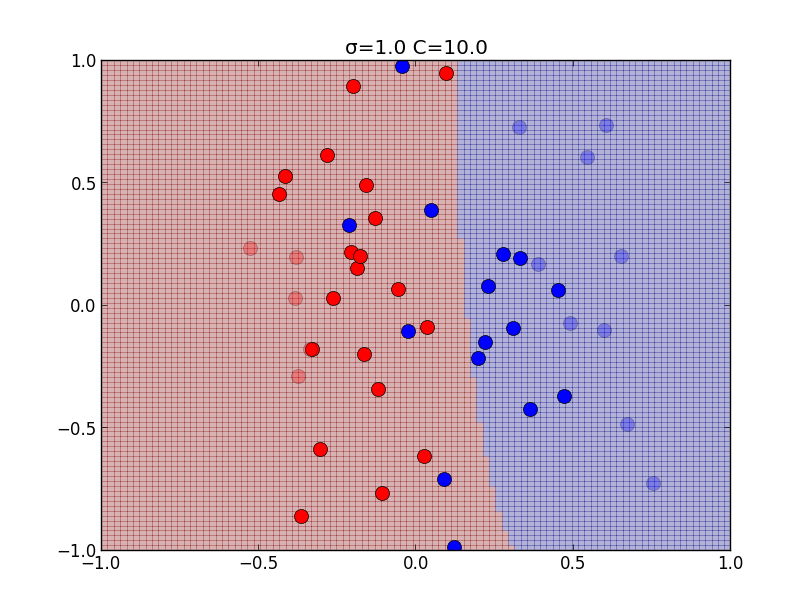
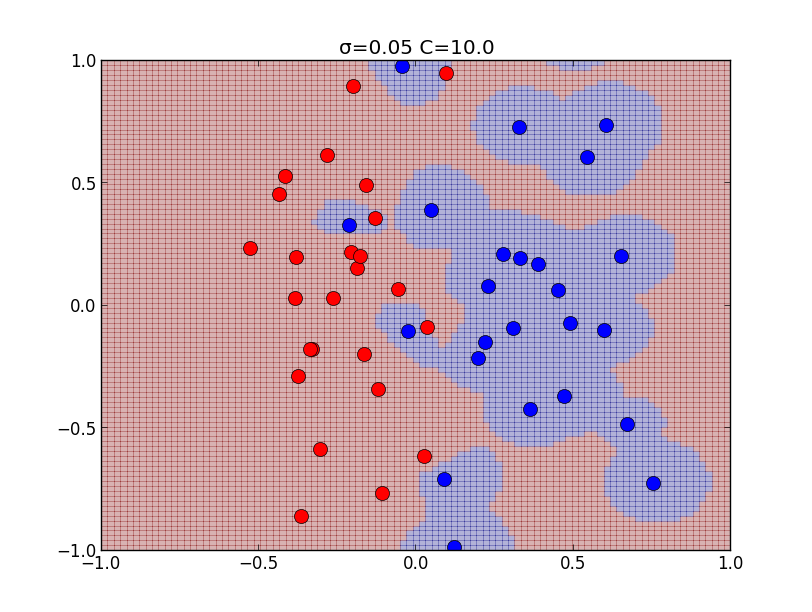
Update 12.html

diff --git a/12.html b/12.html
@@ -454,16 +454,31 @@
 
         <section>
         <p>
-        実装例です. 分散パラメータが$\sigma=0.8$のガウスカーネルを用いています. 色の濃い点がサポートベクトルです.
+        実装例です. 線形カーネルを用いており, 色の濃い点がサポートベクトルです.
         </p>
-        <div align="center"> <img width="600px" src="prog/fig12-1-2.png"> <a href="prog/prog12-1.py" style="font-size:60%">prog12-1.py</a> </div>
+        <div align="center"> <img width="600px" src="prog/fig12-3.png"> <a href="prog/prog12-3.py" style="font-size:60%">prog12-3.py</a> </div>
+        </section>
+
+        <section>
+        <p>
+        以下はニューラルネットワークを用いた場合です. 若干青いグループに識別面が寄っています.
+        </p>
+        <div align="center"> <img width="600px" src="prog/fig12-4.png"> <a href="prog/prog12-4.py" style="font-size:60%">prog12-4.py</a> </div>
+        </section>
+
+
+        <section>
+        <p>
+        分散パラメータが$\sigma=0.8$のガウスカーネルを用いた例です.
+        </p>
+        <div align="center"> <img width="600px" src="prog/fig12-1-1.png"> <a href="prog/prog12-1.py" style="font-size:60%">prog12-1.py</a> </div>
         </section>
 
         <section>
         <p>
         もっと複雑な分布の例です. こちらでは$\sigma=0.4$にしています.
         </p>
-        <div align="center"> <img width="600px" src="prog/fig12-1-4.png"> <a href="prog/prog12-1.py" style="font-size:60%">prog12-1.py</a> </div>
+        <div align="center"> <img width="600px" src="prog/fig12-1-2.png"> <a href="prog/prog12-1.py" style="font-size:60%">prog12-1.py</a> </div>
         </section>
 
 
@@ -601,7 +616,7 @@
 
         <section>
         <p> 以下はカーネルの分散パラメータ $\sigma$と, ソフトマージンのパラメータ $C$ を色々変えて学習を行ったものです. </p>
-        <div align="center"> <img width="600px" src="prog/fig12-2-6.png"> <a href="prog/prog12-2.py" style="font-size:60%">prog12-2.py</a> </div>
+        <div align="center"> <img width="600px" src="prog/fig12-2-5.png"> <a href="prog/prog12-2.py" style="font-size:60%">prog12-2.py</a> </div>
         </section>
 
         <section>

diff --git a/prog/prog12-4.py b/prog/prog12-4.py
@@ -1,0 +1,171 @@
+# -*- coding: utf-8 -*-
+from numpy import *
+from scipy import linalg as LA
+from matplotlib.pyplot import *
+import matplotlib.cm as cm
+
+random.seed(1)
+
+N = 40
+train_x = np.zeros((N, 2))
+train_t = np.zeros(N, dtype=int)
+train_x[0:N/2,:] = np.random.normal([0.5, 0], [0.2,0.4], (N/2, 2))
+train_x[N/2:N,:] = np.random.normal([-0.5, 0], [0.2,0.4], (N-N/2,2))
+train_t[0:N/2] = 1
+train_t[N/2:N] = 0
+
+
+D = 2   # 入力の次元
+M = 4   # 隠れ層の数
+K = 1   # 出力層の数
+
+W1  = M*(D+1) # 第1層の重みパラメータ数
+W2  = K*(M+1) # 第2層の重みパラメータ数
+W   = W1 + W2 # 重みパラメータ数
+
+QN_ITER_MAX = 100    # 準ニュートン法の最大反復回数
+QN_ITER_EPS = 1.0e-2 # 準ニュートン法の停止パラメータ
+QN_HESSE0 = 1.0e-2   # ヘッセ行列の初期値パラメータ
+
+# 直線探索のパラメータ
+LS_C1 = 1.0e-4
+LS_C2 = 0.9
+LS_SCALE_UP   = 2.0
+LS_SCALE_DOWN = 0.6
+LS_ITER_MAX = 100
+LS_STEP0 = 2
+
+#=== 重みパラメータ ===
+# 隠れ層の重みは M*(D+1) 行列w1で表現.
+# 出力層の重みは K*(M+1) 行列w2で表現.
+#
+# w1[i, j] はj番目の入力と隠れ層のi番目の素子の間の重み.
+# w2[i, j] は隠れ層のj番目素子と出力層のi番目の素子の間の重み.
+
+#=== 順伝播 ===
+# x: 入力
+# w1: 隠れ層の重み
+# w2: 出力層の重み
+#
+# 戻り値はタプル (a1, a2)
+# a1[i]: 隠れ層iへの入力
+# a2[i]: 出力層iへの入力
+def forward(x, w1, w2):
+    a1 = w1.dot(append(x, 1))         # 隠れ層への入力
+    a2 = w2.dot(append(tanh(a1), 1))  # 出力層への入力
+    return (a1, a2)
+
+#=== 誤差逆伝播 ===
+# a1, a2: 各層への入力
+# w1, w2: 各層の重み
+# delta2: 出力層の誤差
+# 戻り値: 隠れ層の誤差
+def backprop(a1, a2, w1, w2, delta2):
+    return ((1- tanh(a1)**2)*w2[:,0:M]).dot(delta2) # 隠れ層の誤差
+
+# 偏微分係数の計算
+def diffcoef(x, a1, a2, w1, w2, delta2):
+    delta1 = backprop(a1, a2, w1, w2, delta2)
+    diff1 = outer(delta1, append(x, 1))
+    diff2 = outer(delta2, append(tanh(a1), 1))
+    return (diff1, diff2)
+
+#=== 準ニュートン法の1ステップ
+
+def sigmoid(a):
+    return 1/(1+exp(-a))
+
+# 誤差関数と勾配
+def error_grad(x, t, w1, w2):
+    E = 0
+    gradE1 = 0
+    gradE2 = 0
+    for i in range(N):
+        a1, a2 = forward(x[i], w1, w2)
+        y = sigmoid(a2[0])
+        d1, d2 = diffcoef(x[i], a1, a2, w1, w2, y-t[i])
+        E -= t[i]*log(y) + (1-t[i])*log(1-y) # 交差エントロピー誤差関数
+        gradE1 += d1
+        gradE2 += d2
+    return (E, gradE1, gradE2)
+
+# 直線探索
+# w1, w2: 現在の位置 (重み)
+# p1, p2: 探索方向
+def line_search(x, t, w1, w2, p1, p2):
+    # 方向ベクトルを正規化した状態での初期stepを設定
+    # 傾き緩やかなほど大きく移動.
+    step = LS_STEP0/(LA.norm(p1) + LA.norm(p2))
+
+    E, gradE1, gradE2 = error_grad(x, t, w1, w2)
+    for c in range(LS_ITER_MAX):
+        new_w1 = w1 + step*p1
+        new_w2 = w2 + step*p2
+        new_E, new_gradE1, new_gradE2 = error_grad(x, t, new_w1, new_w2)
+
+        # armijoの条件
+        if new_E > E + LS_C1*step*(sum(p1*gradE1) + sum(p2*gradE2)):
+            # stepは大きすぎる
+            step *= LS_SCALE_DOWN
+            continue
+
+        # wolfeの条件
+        if sum(p1*new_gradE1)+sum(p2*new_gradE2) <\
+                LS_C2*(sum(p1*gradE1) + sum(p2*gradE2)):
+            # stepは小さすぎる
+            step *= LS_SCALE_UP
+        break
+    return step
+
+def quasi_newton_step(x, t, w1, w2):
+    # 誤差関数のa1,a2での微分係数
+    diff1 = zeros((M, D+1))
+    diff2 = zeros((K, M+1))
+
+    # B = H^-1 (ヘッセ行列の逆行列)
+    B = identity(W)/QN_HESSE0
+
+    for i in range(N):
+        a1, a2 = forward(x[i], w1, w2)
+        y = sigmoid(a2[0])
+
+        d1, d2 = diffcoef(x[i], a1, a2, w1, w2, y-t[i])
+        diff1 += d1
+        diff2 += d2
+
+        d1, d2 = diffcoef(x[i], a1, a2, w1, w2, y*(1-y))
+        b = append(d1.flatten(), d2.flatten())
+        B -= outer(B.dot(b), b).dot(B)/(1 + b.dot(B.dot(b)))
+
+    delta_w = - B.dot(append(diff1.flatten(), diff2.flatten()))
+    delta_w1 = delta_w[0:W1].reshape((M, D+1))
+    delta_w2 = delta_w[W1:W].reshape((K, M+1))
+    return (delta_w1, delta_w2)
+
+def quasi_newton_method(x, t):
+    w1 = random.uniform(-1, 1, (M, D+1))
+    w2 = random.uniform(-1, 1, (K, M+1))
+    for i in range(QN_ITER_MAX):
+        d1, d2 = quasi_newton_step(x, t, w1, w2)
+        step = line_search(x, t, w1, w2, d1, d2)
+        w1 += step*d1
+        w2 += step*d2
+        if LA.norm(d1) < QN_ITER_EPS and LA.norm(d2) < QN_ITER_EPS:
+            break
+    return (w1, w2, i+1)
+
+#=== 2クラス識別実験 ===
+
+w1, w2, count = quasi_newton_method(train_x, train_t)
+print count
+
+X, Y = meshgrid(linspace(-1, 1, 100), linspace(-1, 1, 100))
+Z = vectorize(lambda x,y: sigmoid(forward([x,y], w1, w2)[1][0]))(X, Y)
+Z = Z <= 0.5
+xlim(-1, 1)
+ylim(-1, 1)
+for i in range(N):
+    plot(train_x[i,0], train_x[i,1], marker="o", color=["red", "blue"][train_t[i]], markersize=10, alpha=0.3)
+pcolor(X, Y, Z, alpha=0.3)
+title("2-class NN")
+show()

diff --git a/prog/prog12-3.py b/prog/prog12-3.py
@@ -4,26 +4,25 @@ import numpy as np
 from matplotlib.pyplot import *
 import matplotlib.cm as cmap
 
-np.random.seed(0)
+np.random.seed(1)
 
 N = 40
-train_x = np.random.uniform(-1, 1, (N, 2))
-train_t = 2*np.logical_and(train_x[:,0]<0.5, train_x[:,1]<0.5)-1
-#train_t = (train_x[:,0] - 0.5)*(train_x[:,1]-0.5)*(train_x[:,0]+0.5)*(train_x[:,1]+0.5)<0
-#train_t = 2*train_t-1
+train_x = np.zeros((N, 2))
+train_t = np.zeros(N, dtype=int)
+train_x[0:N/2,:] = np.random.normal([0.5, 0], [0.2,0.4], (N/2, 2))
+train_x[N/2:N,:] = np.random.normal([-0.5, 0], [0.2,0.4], (N-N/2,2))
+train_t[0:N/2] = 1
+train_t[N/2:N] = -1
 
 #=== SMO法によるSVMの最適化 ===
 # SMO法の反復回数上限
 MAX_ITER = 1000
 
-# カーネル関数の分散パラメータ
-KERN_SIGMA = 0.4
-
 # |x|<ZERO_EPS のとき, x=0が成立していると見なす.
 ZERO_EPS = 1.0e-2
 
 def kernel(x1, x2):
-    return np.exp(-sum((x1-x2)**2)/(2*KERN_SIGMA**2))
+    return x1.dot(x2)
 
 def gram_matrix(xs):
     K = np.zeros((N,N))
@@ -125,12 +124,15 @@ Z = np.vectorize(lambda x, y: discriminant(mu, theta, np.array([x,y])))(X, Y)
 #    plot(train_x[i,0], train_x[i,1], marker="o", color=["red", "blue"][(train_t[i]+1)/2], markersize=10, alpha=alpha)
 #pcolor(X, Y, Z, alpha=0.3)
 #show()
+Z = Z <= 0
 
-Z = Z < 0
+xlim(-1, 1)
+ylim(-1, 1)
 for i in range(N):
     alpha = 0.3
     if mu[i] >= ZERO_EPS:
         alpha = 1.0
     plot(train_x[i,0], train_x[i,1], marker="o", color=["red", "blue"][(train_t[i]+1)/2], markersize=10, alpha=alpha)
 pcolor(X, Y, Z, alpha=0.3)
+title("2-class SVM")
 show()

diff --git a/prog/prog11-3.py b/prog/prog11-3.py
@@ -4,17 +4,19 @@ from scipy import linalg as LA
 from matplotlib.pyplot import *
 
 # Gaussian process regression
-N = 100
-train_x = random.uniform(0, 1, N)
-train_t = random.normal(sin(2*pi*train_x), 0.1)
+N = 500
+train_x = random.uniform(0, 5, N)
+train_t = random.normal(sin(pi*train_x) + 0.3*sin(3*pi*train_x), 0.1)
 
 # 精度パラメータ
-BETA = 2
+BETA = 100
 
 # カーネル関数
 def k(x1, x2):
-    SIGMA = 0.1
-    return exp(-(x1-x2)**2/(2*SIGMA**2))
+    SIGMA = 0.05
+    return sum([sin(i*pi*x1)*sin(i*pi*x2) for i in range(30)])
+    # return sin(10*x1)*(sin(10*x2))
+    #return exp(-(x1-x2)**2/(2*SIGMA**2))
 
 # グラム行列
 K = zeros((N, N))
@@ -43,20 +45,20 @@ def cond_p(x, t):
     return 1/sqrt(2*pi*s**2)*exp(-(t-mu)**2/(2*s**2))
 
 # 予測値
-x = linspace(0, 1, 100)
+x = linspace(0, 10, 100)
 y = vectorize(m)(x)
 
 # 予測値のみ
-xlim(0, 1)
+xlim(0, 10)
 ylim(-2.0, 2.0)
 scatter(train_x, train_t)
 plot(x, y)
 show()
 
 # 予測値とp(t|x)と標準偏差
-X, Y = meshgrid(linspace(0, 1, 100), linspace(-2.0, 2.0, 100))
+X, Y = meshgrid(linspace(0, 2, 100), linspace(-2.0, 2.0, 100))
 Z = vectorize(cond_p)(X, Y)
-xlim(0, 1)
+xlim(0, 10)
 ylim(-2.0, 2.0)
 scatter(train_x, train_t)
 plot(x, y)

diff --git a/prog/prog12-2.py b/prog/prog12-2.py
@@ -18,14 +18,14 @@ train_t[N/2:N] = -1
 # SMO法の反復回数上限
 MAX_ITER = 1000
 
-# カーネル関数の分散パラメータ
-KERN_SIGMA = 0.8
-
 # |x|<ZERO_EPS のとき, x=0が成立していると見なす.
 ZERO_EPS = 1.0e-2
 
+# カーネル関数の分散パラメータ
+KERN_SIGMA = 0.5
+
 # ソフトマージン最適化のパラメータC(大きい程ハードマージンに近づく)
-SOFTMARGIN_C = 1.0e10
+SOFTMARGIN_C = 1.0e1
 
 def kernel(x1, x2):
     return np.exp(-sum((x1-x2)**2)/(2*KERN_SIGMA**2))
@@ -142,12 +142,12 @@ Z = np.vectorize(lambda x, y: discriminant(mu, theta, np.array([x,y])))(X, Y)
 
 xlim(-1, 1)
 ylim(-1, 1)
-Z = Z < 0.3
+Z = Z < 0
 for i in range(N):
     alpha = 0.3
     if mu[i] >= ZERO_EPS:
         alpha = 1.0
     plot(train_x[i,0], train_x[i,1], marker="o", color=["red", "blue"][(train_t[i]+1)/2], markersize=10, alpha=alpha)
 pcolor(X, Y, Z, alpha=0.3)
-title(u"σ=%.1f C=%.1f" % (KERN_SIGMA, SOFTMARGIN_C))
+title(u"σ=%.2f C=%.1f" % (KERN_SIGMA, SOFTMARGIN_C))
 show()
